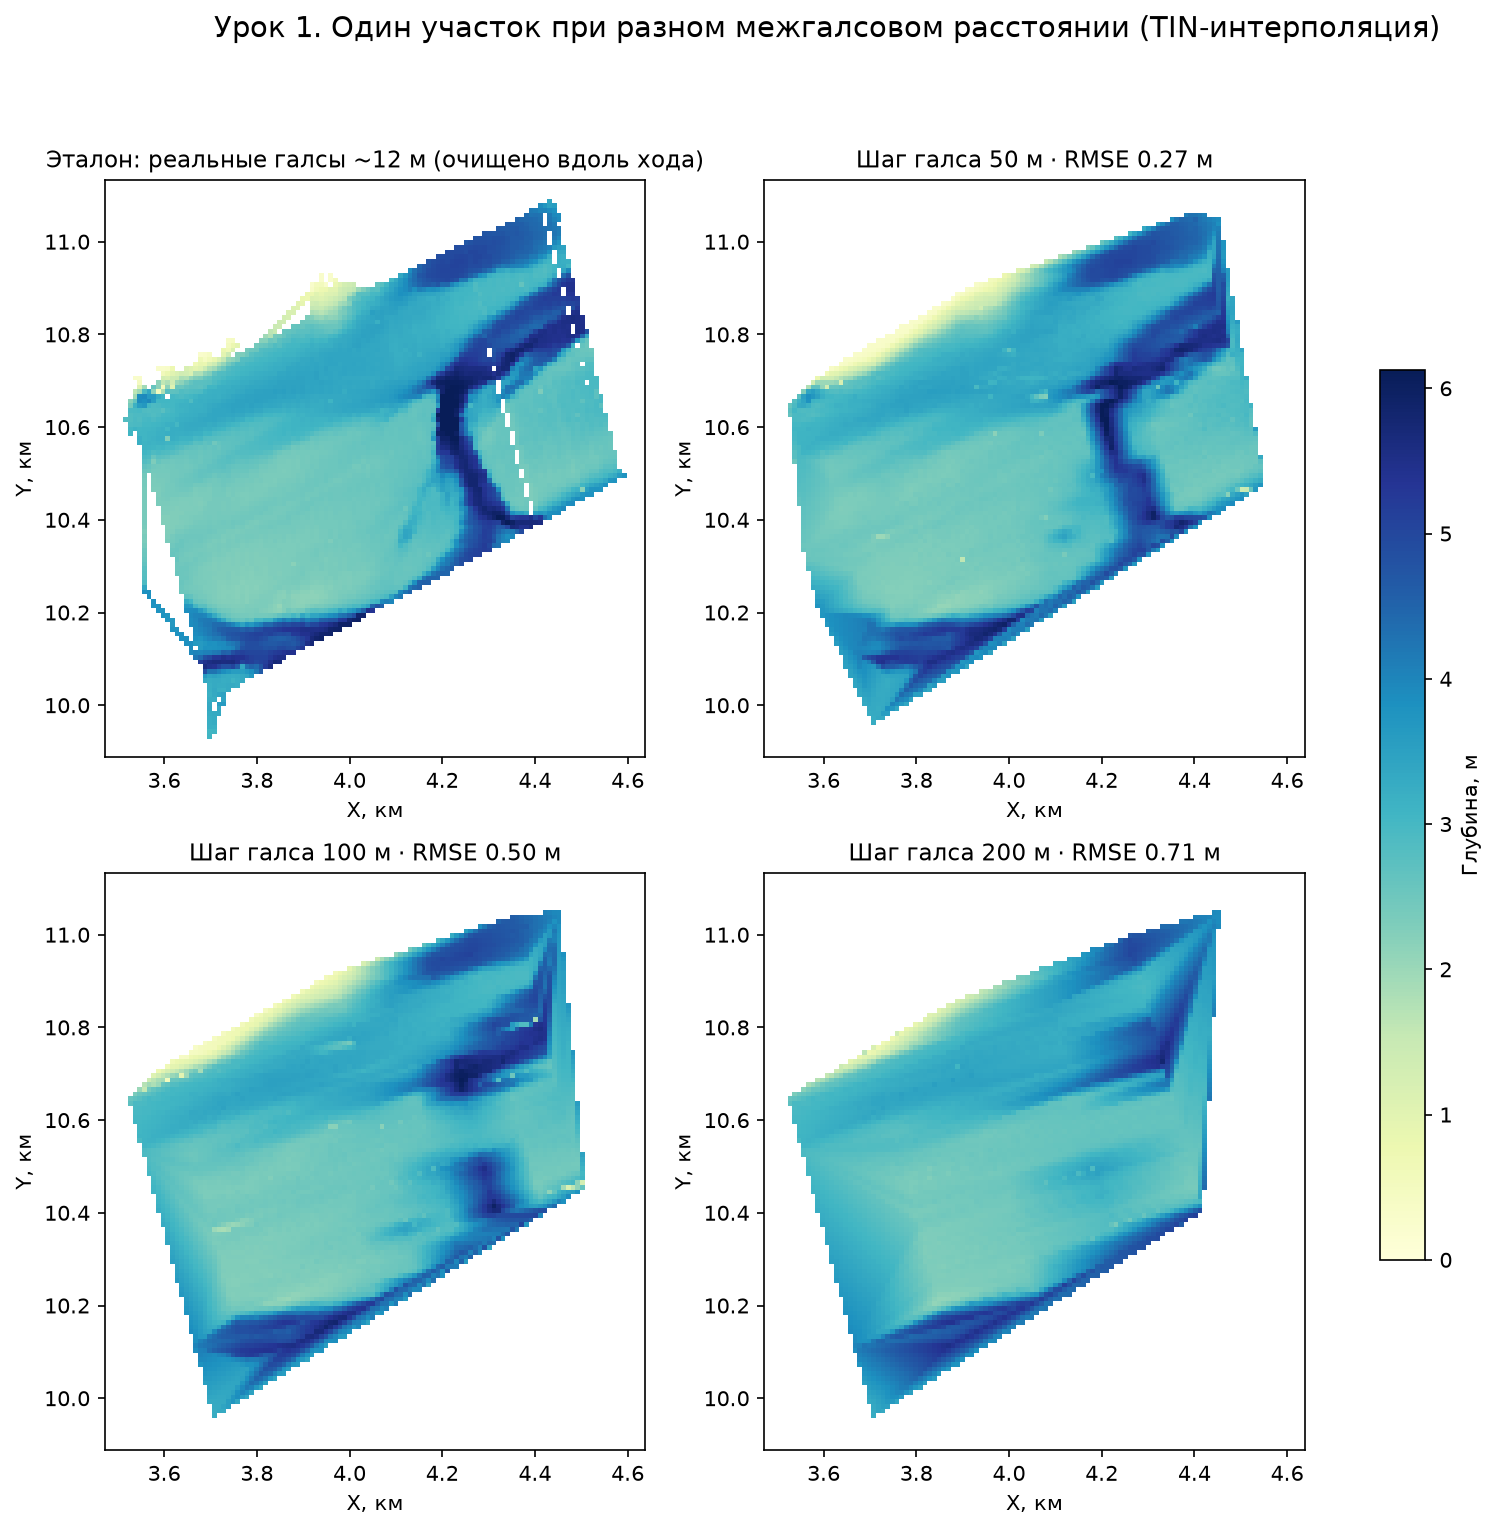
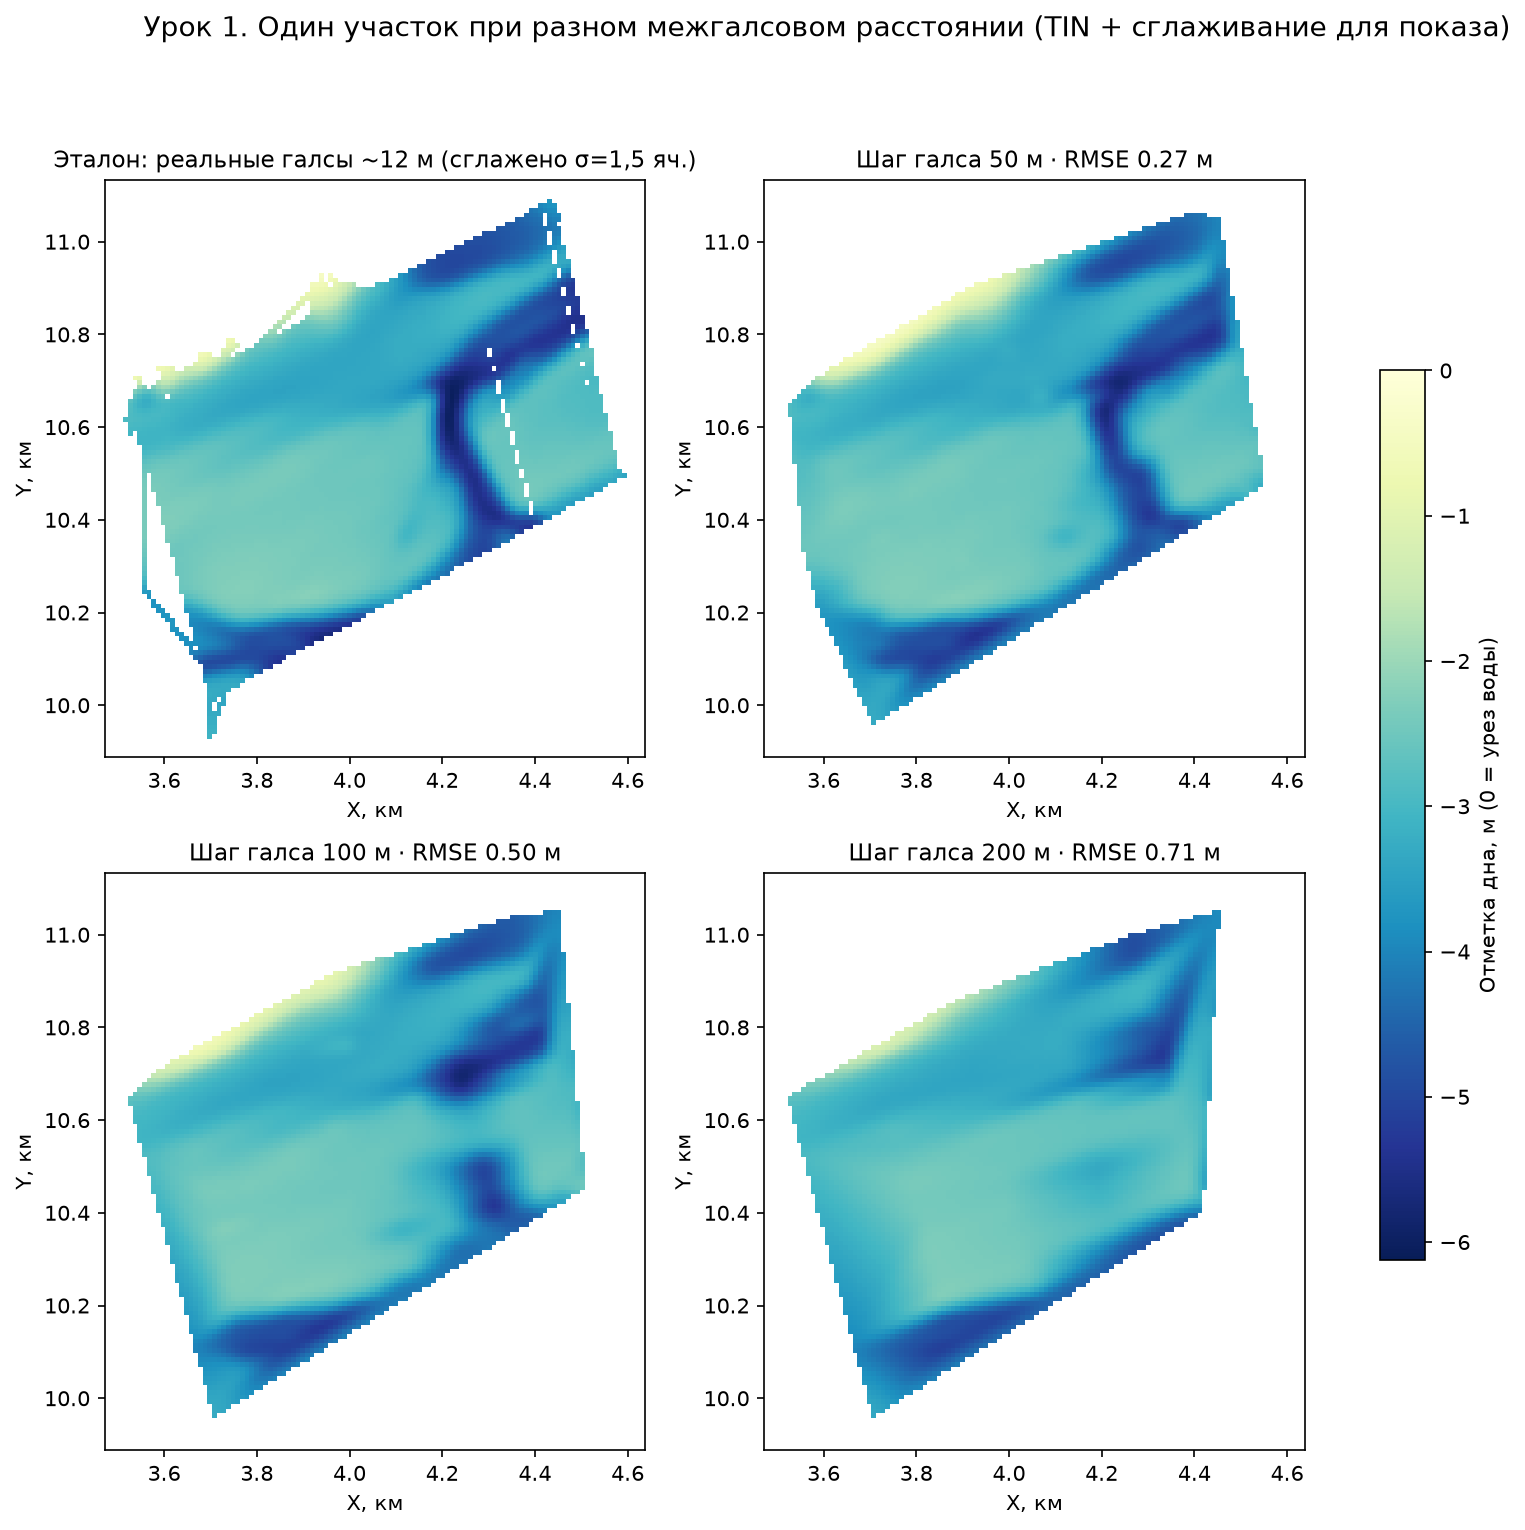
План улучшения П11/А4, словарь данных, фигуры v2 (smooth + отметка дна <= 0)
- plan-uluchsheniya-p11-a4.md: этапы 0-3, зафиксированы проблемы:
  знак глубины (положительная вместо отрицательной отметки дна)
  и отсутствие словаря данных
- data-dictionary.md: все файлы, колонки, СК, единицы, знак
- фигуры пересобраны: гауссово сглаживание (показ), шкала отметки дна

diff --git a/project/lesson-drafts/plan-uluchsheniya-p11-a4.md b/project/lesson-drafts/plan-uluchsheniya-p11-a4.md
@@ -1,0 +1,42 @@
+# План улучшения урока «Карта глубин» (П11) и связки с А4
+
+> Черновик для утверждения · 2026-07-08 · основа: аудит сырых данных + эксперименты уроков 1–2
+
+## Зафиксированные проблемы (исправляются в первую очередь)
+
+| № | Проблема | Где | Исправление |
+|---|---|---|---|
+| 1 | **Знак глубины**: во всех файлах Z/depth хранится положительной («глубина»), а по ГИС/DEM-конвенции отметка дна должна быть **отрицательной** (positive-up). В эталонных изолиниях проекта Z уже отрицательная — файлы и карты противоречат друг другу | все CSV, tif, уроки | колонку оставить `depth_m` (явное имя снимает двусмысленность), добавить производную `bottom_elevation_m = −depth_m`; **во всех визуализациях — только отметка дна ≤ 0** (сделано в фигурах v2) |
+| 2 | **Нет словаря данных**: формат точек, СК, единицы, какие файлы что хранят — нигде не задокументировано | датасеты, Zenodo-пакет | `data-dictionary.md` (создан, см. рядом) + включить в README Zenodo-пакета |
+| 3 | Zenodo-пакет не позволяет воспроизвести уроки: нет меток ходов (порядок перемешан), нет старой съёмки, нет берега | `project/zenodo-package/` | пересборка пакета (этап 0.3) |
+| 4 | Датум-рассогласование съёмок −0,85 м; нулевой ход (20 758 т.); нули у берега (7 210 т.) | сырые данные | шаги чистки в конвейере урока 2; поправка при слиянии |
+
+## Этап 0. Данные и документация (до правки контента)
+
+- **0.1** Словарь данных → в репозиторий и в README Zenodo-пакета.
+- **0.2** Конвенция знака: зафиксировать `depth_m` (хранение) + `bottom_elevation_m` (производная, для ГИС); прогнать по всем страницам платформы поиск «высота/глубина» на согласованность.
+- **0.3** Пересборка Zenodo-пакета: столбец `track_id` (метки ходов), старая съёмка с датум-поправкой −0,85 м, контур берега (Z=0) в той же локальной СК, исключён нулевой ход и GPS-глюки; словарь данных в README.
+
+## Этап 1. Переработка П11
+
+- **1.1 Лекция** «Как устроена съёмка»: галс, ход, анизотропия разрешения, качество ходов (реальные метрики: RMS 0,11–0,49 м; межгалсовые шаги 12–76 м по участкам).
+- **1.2 Практикум 1** = урок 1 (прореживание галсов 25→200 м, RMSE к эталону, кривая ошибки «у галса / середина пролёта») — Colab-ноутбук на пересобранном датасете.
+- **1.3 Практикум 2** = урок 2 (чистка: нули, спайки, вдоль-трековая медиана, MAD; берег Z=0; датум-поправка; **сглаживание σ≈1,5 ячейки как финальный шаг визуализации**) — Colab-ноутбук.
+- **1.4 Визуальный стандарт**: отметка дна отрицательная, изобаты через 1–2 м, сглаживание только для показа (RMSE всегда по несглаженной поверхности — фиксируем это правило в тексте урока).
+- **1.5 Итоговое задание** («проект на своей земле»): полный конвейер от сырых точек до изолиний + морфометрический мини-отчёт (площадь, объём, батиграфическая кривая).
+- **1.6 Квизы**: 8–10 MCQ в тест-движок (анизотропия, выбор шага, медиана vs среднее, роль берега, датум, знак отметки).
+
+## Этап 2. Связка с А4
+
+- **2.1** В А4 — раздел «Морфометрия и уровни»: батиграфическая кривая, объём при разных уровнях наполнения, чувствительность объёма к датум-ошибке (готовый пример: ±0,85 м).
+- **2.2** Перекрёстные ссылки А4 ↔ П11 (теория ↔ практика) в обоих модулях.
+
+## Этап 3. Инфраструктура и приёмка
+
+- **3.1** Скрипты экспериментов → `project/platform/tools/lesson_bathymetry/` (из scratchpad-сессии).
+- **3.2** Учебный сабсет участка с `track_id` → `docs/files/` для скачивания из урока.
+- **3.3** Приёмка: ноутбуки воспроизводятся на Zenodo-пакете «с нуля», RMSE-числа сходятся с уроком, `validate_content.py` + `mkdocs build --strict` зелёные, аудит по 6-мерной рубрике — «готов».
+
+## Оценка трудоёмкости
+
+Этап 0 — ~1 день; этап 1 — 2–3 дня (ноутбуки — основное); этап 2 — 0,5 дня; этап 3 — 0,5–1 день.

diff --git a/project/lesson-drafts/data-dictionary.md b/project/lesson-drafts/data-dictionary.md
@@ -1,0 +1,33 @@
+# Словарь данных батиметрии (data dictionary)
+
+> Создан 2026-07-08 по результатам аудита: формат точек и координат ранее не был задокументирован.
+> ⚠ Общая проблема знака: во всех файлах Z/Depth — **глубина, положительная вниз**. По ГИС/DEM-конвенции отметка дна отрицательна; в производных продуктах использовать `bottom_elevation_m = −depth_m`, в визуализациях — только отметку (≤ 0).
+
+## Уровень C — сырые данные с реальной геопривязкой (`data-not-anonymys/Main/`, НЕ публикуются)
+
+| Файл | Строк | Колонки | СК / формат | Примечания |
+|---|---|---|---|---|
+| `coords_depth.csv` | 539 955 | `Data_ID` (строка `gj`+6 цифр), `Latitude`, `Longitude` (градусы), `Depth` (м, ≥0) | WGS84, EPSG:4326 | **Новая эхолотная съёмка.** Порядок строк = хронология записи → восстановимы 56 ходов. Запись координат с избыточной разрядностью (до мм); фактическая точность GNSS 2–5 м. Содержит нулевой ход (20 758 т. вне водоёма) и 5 т. GPS-глюка |
+| `representative_80000_points.csv` | 79 257 | `fid`, `id` (своя gj-серия — **не совпадает** с coords_depth!), `Z` (м, ≥0, целые), `Y`, `X` (м, целые) | UTM 41N, EPSG:32641 | **Старая съёмка**, вся акватория зигзаг-галсами ~300–600 м; координаты и глубины огрублены до целых. Глубже новой съёмки на ~0,85 м (датум/уровень) |
+| `2.csv` | 79 315 | `fid`, `id` (числовой), `Z`, `Y`, `X` | UTM 41N | Вспомогательный набор (часть строк Z=0); происхождение уточнить у автора съёмки |
+| `merged_points_transformed.csv` | 619 212 | `fid`, `id`, `Z`, `Y`, `X` | UTM 41N | Конкатенация: representative (свои id) + coords_depth→UTM (`id='new_point'`), **без датум-поправки** |
+| `interior_cleaned.csv` / `all_points_cleaned.csv` | 578 704 / 579 204 | те же | UTM 41N | После MAD-чистки (K=30, порог 3); all = interior + edge |
+| `edge_points.csv` | 500 | `fid`, `id`, `Z`=0, `Y`, `X` | UTM 41N | Берег: точки по контуру полигонов shoreline, Z=0 (урез) |
+| `shoreline.shp` (+ .shx .dbf .prj .cpg .qmd) | — | полигоны | EPSG:32641 (проверить .prj) | Оцифровка береговой линии |
+| `bathymetry1.tif` + `.tfw` | 100 м/пикс | глубина, м | UTM 41N | Сетка уровня B (обобщённый продукт) |
+| `SECRET-origin.json` (в `.work/`) | — | смещение локальной СК | — | **Хранить офлайн, вне репозитория** (ключ восстановления геопривязки уровня A) |
+
+## Уровень A — обезличенные данные (публикуются)
+
+| Файл | Строк | Колонки | СК | Примечания |
+|---|---|---|---|---|
+| `project/zenodo-package/bathymetry-training-set.csv` | 539 955 | `point_id` (int, перегенерирован), `x_m`, `y_m` (м, локальная СК, округление 0,1 м), `depth_m` (м, ≥0) | локальная (origin секретен) | Только новая съёмка; **порядок перемешан** — ходы невосстановимы; берега и старой съёмки нет (см. план пересборки) |
+| `project/platform/datasets/bathymetry-training-80k.csv` (= `docs/files/…`) | 80 000 | те же | локальная | Учебный сабсет |
+| `docs/modules/a4/data/bathymetry-grid-100m.tif` + `.tfw` | 100 м/пикс | глубина, м | локальная | Сетка уровня B, перепроецированная в локальную СК уровня A |
+
+## Правила использования
+
+1. Уровень C не покидает внутренний контур (в git заблокирован явными паттернами `.gitignore`).
+2. Любые публикуемые графики — только в локальной/относительной СК.
+3. При слиянии съёмок — датум-поправка −0,85 м к старой (проверить на актуальных парах перекрытия).
+4. Знак: хранение `depth_m ≥ 0`, показ — `bottom_elevation_m = −depth_m`.

diff --git a/project/lesson-drafts/urok-1-shag-galsa.md b/project/lesson-drafts/urok-1-shag-galsa.md
@@ -2,6 +2,7 @@
 
 > Черновик для рецензии · кандидат в модуль П11 (лекция/практикум) и А4
 > Все числа вычислены из реальных данных съёмки; координаты на рисунках — относительные (локальная СК уровня A).
+> Визуализация v2: карты сглажены (гаусс, σ=1,5 ячейки — только показ; RMSE всегда по несглаженной поверхности); вертикальная шкала — **отметка дна, отрицательная** (0 = урез воды), см. `data-dictionary.md` о знаке глубины.
 
 ## Цель
 

diff --git a/project/lesson-drafts/urok-2-mad-i-bereg.md b/project/lesson-drafts/urok-2-mad-i-bereg.md
@@ -2,6 +2,7 @@
 
 > Черновик для рецензии · кандидат в модуль П11 (практикум) и А4
 > Все числа вычислены из реальных данных; координаты на рисунках — относительные.
+> Визуализация v2: карты сглажены (гаусс, σ=1,5 ячейки — только показ; RMSE по несглаженной поверхности); шкала — **отметка дна, отрицательная** (0 = урез), см. `data-dictionary.md`.
 
 ## Цель
 
